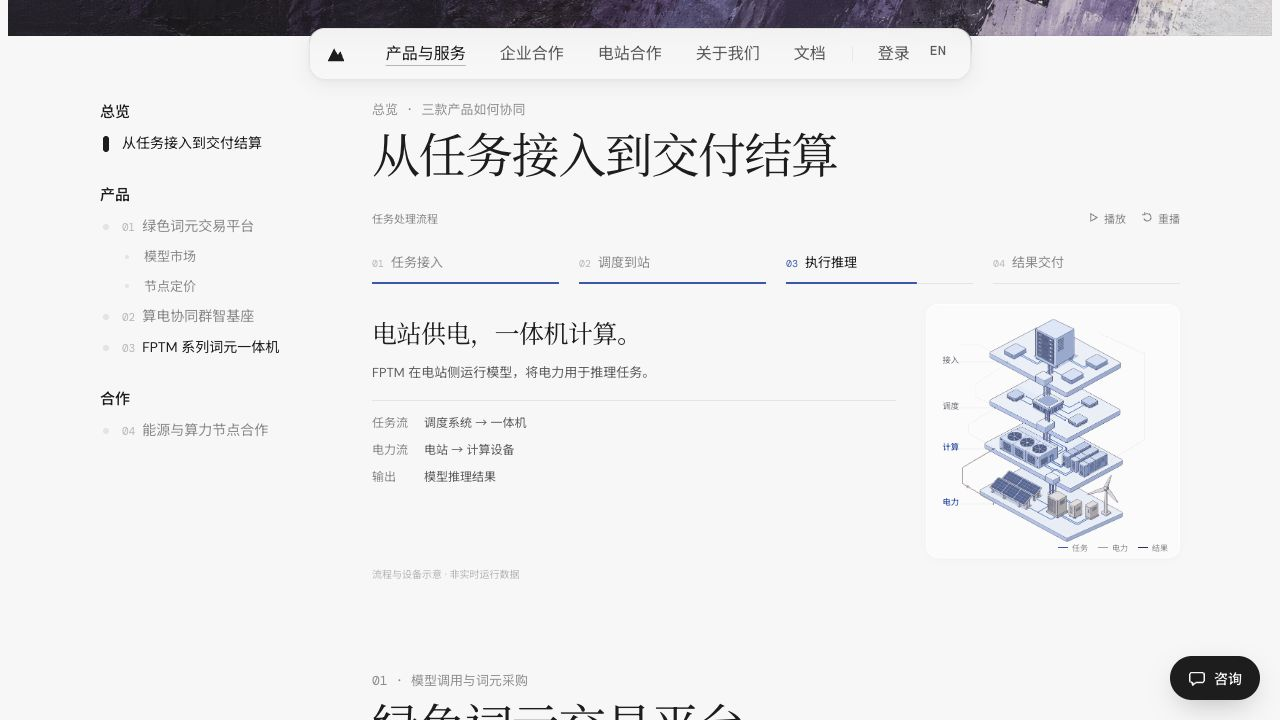
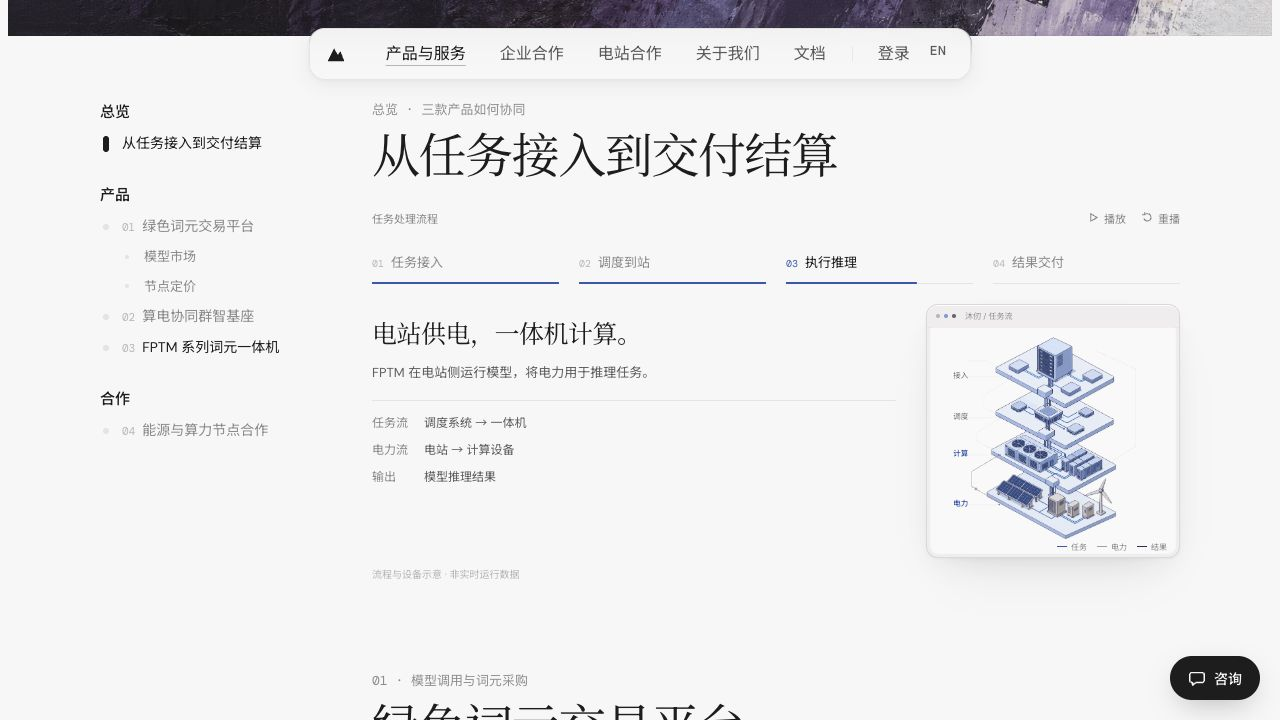
Refine flow artwork embedding with translucent Dia-style surfaces

Changed region(s): [[0.7188, 0.4278, 0.875, 0.7944], [0.75, 0.4278, 0.7812, 0.4583]]

diff --git a/index.html b/index.html
@@ -690,13 +690,18 @@ a.sx-a:hover .sxw,a.sx-a:hover .sx-plant{transform:translateY(-2px);background:r
 .flow-copy{position:relative;min-height:226px}.flow-scene{position:absolute;inset:0;opacity:0;visibility:hidden;transform:translateY(5px);transition:opacity .3s,transform .4s;pointer-events:none}.flow-scene.is-current{opacity:1;visibility:visible;transform:none;pointer-events:auto}
 .flow-eyebrow{display:none}.flow-scene h3{font:400 25px/1.35 var(--serif);margin:0 0 10px;color:var(--ink);letter-spacing:-.02em}.flow-scene h3 br{display:none}.flow-scene p{font:400 13px/1.75 var(--sans);color:var(--ink-70);margin:0 0 16px;max-width:37em}
 .flow-facts{display:grid;gap:7px;padding:13px 0 0;border-top:1px solid var(--line);margin:0}.flow-facts div{display:flex;gap:16px;font:400 12px/1.65 var(--sans)}.flow-facts dt{color:var(--ink-50);flex:none;width:3em}.flow-facts dd{margin:0;color:var(--ink-70)}
-.flow-art{position:relative;width:254px;aspect-ratio:1;align-self:center;background:rgba(255,255,255,.48);border-radius:12px;box-shadow:inset 0 0 0 1px #ffffffa6,0 2px 9px #3D314F05}.flow-art>img{position:absolute;inset:9px 8px 16px;display:block;width:calc(100% - 16px);height:calc(100% - 25px);object-fit:contain;opacity:.84}.flow-art>svg{position:absolute;inset:9px 8px 16px;width:calc(100% - 16px);height:calc(100% - 25px);overflow:visible}
-.flow-wire{fill:none;stroke:var(--brand-action);stroke-width:2;stroke-linecap:round;stroke-linejoin:round;opacity:.1}.flow-wire.energy{stroke:var(--brand-warm)}.flow-wire.result{stroke:var(--brand-violet)}.flow-wire.active{stroke-width:4;opacity:.9}.flow-packet{fill:var(--brand-action);stroke:var(--paper);stroke-width:2}.flow-packet.energy{fill:var(--brand-warm)}.flow-packet.result{fill:var(--brand-violet)}
-.flow-layer-label{font:400 36px var(--sans);fill:#87818c}.flow-layer-label.active{fill:var(--brand-action);font-weight:500}.flow-layer-guide{fill:none;stroke:#3D314F30;stroke-width:1}.flow-layer-dot{fill:#3D314F55}.flow-layer-dot.active{fill:var(--brand-action)}
+.flow-art{position:relative;isolation:isolate;width:254px;aspect-ratio:1;align-self:center;border:1px solid rgba(33,32,33,.10);border-radius:12px;background:rgba(82,132,215,.075);box-shadow:inset 0 1px 0 rgba(255,255,255,.88),0 1px 2px rgba(33,32,33,.04),0 12px 28px -12px rgba(33,32,33,.10),0 28px 56px -28px rgba(33,32,33,.12);transition:background-color .6s ease}
+.business-flow[data-phase="2"] .flow-art{background:rgba(183,168,163,.11)}.business-flow[data-phase="3"] .flow-art{background:rgba(61,49,79,.055)}
+.flow-art:before{content:"";position:absolute;inset:23px 4px 4px;border-radius:2px 2px 8px 8px;background:rgba(255,255,255,.68);box-shadow:0 0 0 1px rgba(255,255,255,.62);z-index:-1}
+.flow-art-bar{height:23px;display:flex;align-items:center;gap:4px;padding:0 9px;border-bottom:1px solid rgba(33,32,33,.035);color:rgba(33,32,33,.44);font:400 8px var(--sans)}.flow-art-bar i{width:4px;height:4px;border-radius:50%;background:var(--brand-warm);opacity:.7}.flow-art-bar i:nth-child(2){background:var(--brand-blue)}.flow-art-bar i:nth-child(3){background:var(--brand-violet)}.flow-art-bar span{margin-left:5px;white-space:nowrap}
+.flow-art>img,.flow-art>svg{position:absolute;inset:27px 8px 18px;display:block;width:calc(100% - 16px);height:calc(100% - 45px)}.flow-art>img{object-fit:contain;opacity:1}.flow-art>svg{overflow:visible}
+
+.flow-wire{fill:none;stroke:var(--brand-action);stroke-width:1.6;stroke-linecap:round;stroke-linejoin:round;opacity:.12}.flow-wire.energy{stroke:var(--brand-warm)}.flow-wire.result{stroke:var(--brand-violet)}.flow-wire.active{stroke-width:3;opacity:.82}.flow-packet{fill:var(--brand-action);stroke:var(--paper);stroke-width:2}.flow-packet.energy{fill:var(--brand-warm)}.flow-packet.result{fill:var(--brand-violet)}
+.flow-layer-label{font:400 36px var(--sans);fill:#87818c}.flow-layer-label.active{fill:var(--brand-action);font-weight:500}.flow-layer-guide{fill:none;stroke:rgba(33,32,33,.15);stroke-width:1}.flow-layer-dot{fill:#3D314F55}.flow-layer-dot.active{fill:var(--brand-action)}
 .flow-art-key{position:absolute;right:12px;bottom:5px;display:flex;gap:10px;font:400 8px var(--sans);color:var(--ink-50)}.flow-art-key span{display:flex;align-items:center;gap:4px}.flow-art-key i{width:10px;height:1px;background:var(--brand-action)}.flow-art-key span:nth-child(2) i{background:var(--brand-warm)}.flow-art-key span:nth-child(3) i{background:var(--brand-violet)}
 .flow-caption{display:none}.flow-note{display:block;font:400 10px/1.6 var(--sans);color:var(--ink-30);margin-top:9px}.flow-controls button:focus-visible,.flow-nav button:focus-visible{outline:2px solid var(--brand-action);outline-offset:4px}
 @media(max-width:1100px) and (min-width:801px){.flow-stage{grid-template-columns:minmax(0,1fr) 215px;gap:18px}.flow-art{width:215px}.flow-copy{min-height:250px}.flow-scene h3{font-size:23px}.flow-facts div{gap:10px}}
-@media(max-width:800px){.business-flow{margin-top:14px}.flow-toolbar{font-size:10px}.flow-controls{gap:14px}.flow-controls button{min-height:40px}.flow-nav{gap:9px;margin-bottom:18px}.flow-nav button{font-size:11px;min-height:50px;padding:8px 0}.flow-nav em{display:block;margin:0 0 4px;font-size:9px}.flow-stage{grid-template-columns:minmax(0,1fr) 136px;gap:12px;align-items:end;min-height:275px}.flow-copy{min-height:275px}.flow-scene h3,.flow-scene p{width:calc(100% + 148px)}.flow-scene h3{font-size:24px;margin-bottom:10px}.flow-scene p{font-size:12px;line-height:1.75;margin-bottom:17px;min-height:63px}.flow-facts{padding-top:10px;gap:7px}.flow-facts div{display:block;font-size:11px;line-height:1.6}.flow-facts dt{width:auto;font-size:10px}.flow-art{width:136px;align-self:end;margin-bottom:6px;border-radius:8px}.flow-art>img,.flow-art>svg{inset:2px;width:calc(100% - 4px);height:calc(100% - 4px)}.flow-layer-label,.flow-layer-guide,.flow-layer-dot,.flow-art-key{display:none}.flow-note{font-size:9px;max-width:28em}}
+@media(max-width:800px){.business-flow{margin-top:14px}.flow-toolbar{font-size:10px}.flow-controls{gap:14px}.flow-controls button{min-height:40px}.flow-nav{gap:9px;margin-bottom:18px}.flow-nav button{font-size:11px;min-height:50px;padding:8px 0}.flow-nav em{display:block;margin:0 0 4px;font-size:9px}.flow-stage{grid-template-columns:minmax(0,1fr) 136px;gap:12px;align-items:end;min-height:275px}.flow-copy{min-height:275px}.flow-scene h3,.flow-scene p{width:calc(100% + 148px)}.flow-scene h3{font-size:24px;margin-bottom:10px}.flow-scene p{font-size:12px;line-height:1.75;margin-bottom:17px;min-height:63px}.flow-facts{padding-top:10px;gap:7px}.flow-facts div{display:block;font-size:11px;line-height:1.6}.flow-facts dt{width:auto;font-size:10px}.flow-art{width:136px;align-self:end;margin-bottom:6px;border-radius:8px}.flow-art-bar{height:17px;padding:0 6px;gap:3px;font-size:6px}.flow-art-bar i{width:3px;height:3px}.flow-art-bar span{margin-left:3px}.flow-art:before{inset:17px 3px 3px;border-radius:1px 1px 5px 5px}.flow-art>img,.flow-art>svg{inset:18px 4px 4px;width:calc(100% - 8px);height:calc(100% - 22px)}.flow-layer-label,.flow-layer-guide,.flow-layer-dot,.flow-art-key{display:none}.flow-note{font-size:9px;max-width:28em}}
 @media(prefers-reduced-motion:reduce){.business-flow *,.btn,.pill,.sx *,.story-sheet,.story-bar i{animation:none!important;transition:none!important}.btn:hover,.gcard:hover .pv,.sx-a:hover .sx-mark,.sx-a:hover .sx-plant>svg{transform:none}}
 
 </style>
@@ -800,7 +805,7 @@ a.sx-a:hover .sxw,a.sx-a:hover .sx-plant{transform:translateY(-2px);background:r
         <div class="business-flow" id="businessFlow" data-phase="0">
 <div class="flow-toolbar"><span>任务处理流程</span><div class="flow-controls"><button type="button" data-flow-pause aria-pressed="false"><svg viewBox="0 0 12 12" aria-hidden="true"><path d="M4 2v8M8 2v8" fill="none" stroke="currentColor" stroke-width="1.2"/></svg><span>暂停</span></button><button type="button" data-flow-replay><svg viewBox="0 0 12 12" aria-hidden="true"><path d="M3 3a4 4 0 1 1-1 4M3 0v3H0" fill="none" stroke="currentColor" stroke-width="1.2"/></svg><span>重播</span></button></div></div>
 <div class="flow-nav" aria-label="选择动画步骤"><button type="button" data-flow-step="0" aria-current="step"><em>01</em>任务接入</button><button type="button" data-flow-step="1"><em>02</em>调度到站</button><button type="button" data-flow-step="2"><em>03</em>执行推理</button><button type="button" data-flow-step="3"><em>04</em>结果交付</button></div>
-<div class="flow-stage"><div class="flow-copy"><section class="flow-scene is-current" data-flow-scene="0" aria-label="任务接入" aria-hidden="false"><span class="flow-eyebrow">01 / API REQUEST</span><h3>一个入口，<br>明确任务。</h3><p>模型、输入内容与交付要求，通过统一 API 进入平台。</p><dl class="flow-facts"><div><dt>输入</dt><dd>任务内容与参数</dd></div><div><dt>约束</dt><dd>模型、用量、交付时限</dd></div><div><dt>去向</dt><dd>算电协同调度</dd></div></dl></section><section class="flow-scene" data-flow-scene="1" aria-label="调度到站" aria-hidden="true" inert><span class="flow-eyebrow">02 / TASK ROUTING</span><h3>让任务找到<br>合适的节点。</h3><p>结合任务时限、电力预测、节点与网络状态，安排运行位置和时段。</p><dl class="flow-facts"><div><dt>判断</dt><dd>任务与资源条件</dd></div><div><dt>安排</dt><dd>节点与运行时段</dd></div><div><dt>下发</dt><dd>电站侧推理任务</dd></div></dl></section><section class="flow-scene" data-flow-scene="2" aria-label="执行推理" aria-hidden="true" inert><span class="flow-eyebrow">03 / STATION INFERENCE</span><h3>电站供电，<br>一体机计算。</h3><p>FPTM 在电站侧运行模型，将电力用于推理任务。</p><dl class="flow-facts"><div><dt>任务流</dt><dd>调度系统 → 一体机</dd></div><div><dt>电力流</dt><dd>电站 → 计算设备</dd></div><div><dt>输出</dt><dd>模型推理结果</dd></div></dl></section><section class="flow-scene" data-flow-scene="3" aria-label="结果交付" aria-hidden="true" inert><span class="flow-eyebrow">04 / RESULT DELIVERY</span><h3>返回结果，<br>留下记录。</h3><p>推理结果经平台交付客户，并关联本次任务的用量与费用。</p><dl class="flow-facts"><div><dt>交付</dt><dd>推理结果</dd></div><div><dt>计费</dt><dd>词元用量与费用</dd></div><div><dt>关联</dt><dd>实际提供的能源信息</dd></div></dl></section></div><div class="flow-art"><img src="art/engineering-stack_2026-10-14.png" width="1254" height="1254" alt="四层等轴测工程插画，依次表示接入、调度、计算与能源职责" loading="lazy" decoding="async"><svg viewBox="0 0 1000 1000" aria-hidden="true"><path class="flow-wire" data-engine-path="0" d="M95 140 H180 L310 215"/><circle class="flow-packet" data-engine-packet="0" r="7"/><path class="flow-wire" data-engine-path="1" d="M310 215 L160 310 V365 L255 410 L130 488 V525 L248 590"/><circle class="flow-packet" data-engine-packet="1" r="7"/><path class="flow-wire energy" data-engine-path="2" d="M250 830 L105 745 V675 L248 590"/><circle class="flow-packet energy" data-engine-packet="2" r="7"/><path class="flow-wire result" data-engine-path="3" d="M750 645 L900 552 V178 L705 90"/><circle class="flow-packet result" data-engine-packet="3" r="7"/><text class="flow-layer-label" data-engine-label="0" x="18" y="220">接入</text><path class="flow-layer-guide" d="M64 214 H300"/><circle class="flow-layer-dot" data-engine-dot="0" cx="300" cy="214" r="3"/><text class="flow-layer-label" data-engine-label="1" x="18" y="420">调度</text><path class="flow-layer-guide" d="M64 414 H245"/><circle class="flow-layer-dot" data-engine-dot="1" cx="245" cy="414" r="3"/><text class="flow-layer-label" data-engine-label="2" x="18" y="600">计算</text><path class="flow-layer-guide" d="M64 594 H238"/><circle class="flow-layer-dot" data-engine-dot="2" cx="238" cy="594" r="3"/><text class="flow-layer-label" data-engine-label="3" x="18" y="840">电力</text><path class="flow-layer-guide" d="M64 834 H240"/><circle class="flow-layer-dot" data-engine-dot="3" cx="240" cy="834" r="3"/></svg><div class="flow-art-key"><span><i></i>任务</span><span><i></i>电力</span><span><i></i>结果</span></div></div></div>
+<div class="flow-stage"><div class="flow-copy"><section class="flow-scene is-current" data-flow-scene="0" aria-label="任务接入" aria-hidden="false"><span class="flow-eyebrow">01 / API REQUEST</span><h3>一个入口，<br>明确任务。</h3><p>模型、输入内容与交付要求，通过统一 API 进入平台。</p><dl class="flow-facts"><div><dt>输入</dt><dd>任务内容与参数</dd></div><div><dt>约束</dt><dd>模型、用量、交付时限</dd></div><div><dt>去向</dt><dd>算电协同调度</dd></div></dl></section><section class="flow-scene" data-flow-scene="1" aria-label="调度到站" aria-hidden="true" inert><span class="flow-eyebrow">02 / TASK ROUTING</span><h3>让任务找到<br>合适的节点。</h3><p>结合任务时限、电力预测、节点与网络状态，安排运行位置和时段。</p><dl class="flow-facts"><div><dt>判断</dt><dd>任务与资源条件</dd></div><div><dt>安排</dt><dd>节点与运行时段</dd></div><div><dt>下发</dt><dd>电站侧推理任务</dd></div></dl></section><section class="flow-scene" data-flow-scene="2" aria-label="执行推理" aria-hidden="true" inert><span class="flow-eyebrow">03 / STATION INFERENCE</span><h3>电站供电，<br>一体机计算。</h3><p>FPTM 在电站侧运行模型，将电力用于推理任务。</p><dl class="flow-facts"><div><dt>任务流</dt><dd>调度系统 → 一体机</dd></div><div><dt>电力流</dt><dd>电站 → 计算设备</dd></div><div><dt>输出</dt><dd>模型推理结果</dd></div></dl></section><section class="flow-scene" data-flow-scene="3" aria-label="结果交付" aria-hidden="true" inert><span class="flow-eyebrow">04 / RESULT DELIVERY</span><h3>返回结果，<br>留下记录。</h3><p>推理结果经平台交付客户，并关联本次任务的用量与费用。</p><dl class="flow-facts"><div><dt>交付</dt><dd>推理结果</dd></div><div><dt>计费</dt><dd>词元用量与费用</dd></div><div><dt>关联</dt><dd>实际提供的能源信息</dd></div></dl></section></div><div class="flow-art"><div class="flow-art-bar" aria-hidden="true"><i></i><i></i><i></i><span>沐仞 / 任务流</span></div><img src="art/engineering-stack_2026-10-14.png" width="1254" height="1254" alt="四层等轴测工程插画，依次表示接入、调度、计算与能源职责" loading="lazy" decoding="async"><svg viewBox="0 0 1000 1000" aria-hidden="true"><path class="flow-wire" data-engine-path="0" d="M95 140 H180 L310 215"/><circle class="flow-packet" data-engine-packet="0" r="7"/><path class="flow-wire" data-engine-path="1" d="M310 215 L160 310 V365 L255 410 L130 488 V525 L248 590"/><circle class="flow-packet" data-engine-packet="1" r="7"/><path class="flow-wire energy" data-engine-path="2" d="M250 830 L105 745 V675 L248 590"/><circle class="flow-packet energy" data-engine-packet="2" r="7"/><path class="flow-wire result" data-engine-path="3" d="M750 645 L900 552 V178 L705 90"/><circle class="flow-packet result" data-engine-packet="3" r="7"/><text class="flow-layer-label" data-engine-label="0" x="18" y="220">接入</text><path class="flow-layer-guide" d="M64 214 H300"/><circle class="flow-layer-dot" data-engine-dot="0" cx="300" cy="214" r="3"/><text class="flow-layer-label" data-engine-label="1" x="18" y="420">调度</text><path class="flow-layer-guide" d="M64 414 H245"/><circle class="flow-layer-dot" data-engine-dot="1" cx="245" cy="414" r="3"/><text class="flow-layer-label" data-engine-label="2" x="18" y="600">计算</text><path class="flow-layer-guide" d="M64 594 H238"/><circle class="flow-layer-dot" data-engine-dot="2" cx="238" cy="594" r="3"/><text class="flow-layer-label" data-engine-label="3" x="18" y="840">电力</text><path class="flow-layer-guide" d="M64 834 H240"/><circle class="flow-layer-dot" data-engine-dot="3" cx="240" cy="834" r="3"/></svg><div class="flow-art-key"><span><i></i>任务</span><span><i></i>电力</span><span><i></i>结果</span></div></div></div>
 <div class="flow-caption"><p data-flow-caption="0">任务通过统一 API 接入，模型、用量与交付时限进入调度环节。</p><p data-flow-caption="1" hidden>结合任务要求、电力预测、节点与网络状态，安排运行节点和时段，将任务送往电站侧一体机。</p><p data-flow-caption="2" hidden>电站供电，FPTM 一体机运行模型，完成推理计算。</p><p data-flow-caption="3" hidden>推理结果返回平台并交付客户，同时记录用量、费用与能源信息。</p></div>
 <small class="flow-note">流程与设备示意 · 非实时运行数据</small>
 </div>

diff --git a/README.md b/README.md
@@ -70,3 +70,10 @@
 - 1280px 视口实测：模块高 382px，辅助图 254 × 254px。手机版辅助图 136 × 136px，与字段说明并排；四步均核查无横向溢出、图片不覆盖正文。
 - 删除可见重复段落与英文阶段编号，保留任务输入、调度条件、电力输入及结果交付的具体说明。暂停、重播及线路动画继续使用原时间轴。
 - JS 语法、ID、原字体定义、链接、表单地址和业务数据比对通过；仅本地修订，未发布。
+
+## 2026-10-14 图片嵌入、线框与透明度
+
+- 对照 Dia 实际页面的图片容器，采用浅色窗口底、品牌色圆点、半透明白色内页、细边框和分层轻阴影；未使用 Dia 的图片素材。
+- 图片恢复完整不透明度，透明度只作用于表面和辅助线路。活动线路保留品牌强调色；执行与交付阶段的底色分别转为浅暖灰和浅紫灰。
+- 保留 254px 桌面、136px 手机辅助图尺寸及既有四步交互。1280px 桌面、390px 手机目视核查通过，图片正常加载、SVG 对齐且无横向溢出。JS 语法、字体、链接、表单地址及业务数据比对通过。
+- 本轮只修改本地副本，未发布；更新 qa/motion-desktop-2026-10-14.png 与 qa/motion-mobile-2026-10-14.png。
